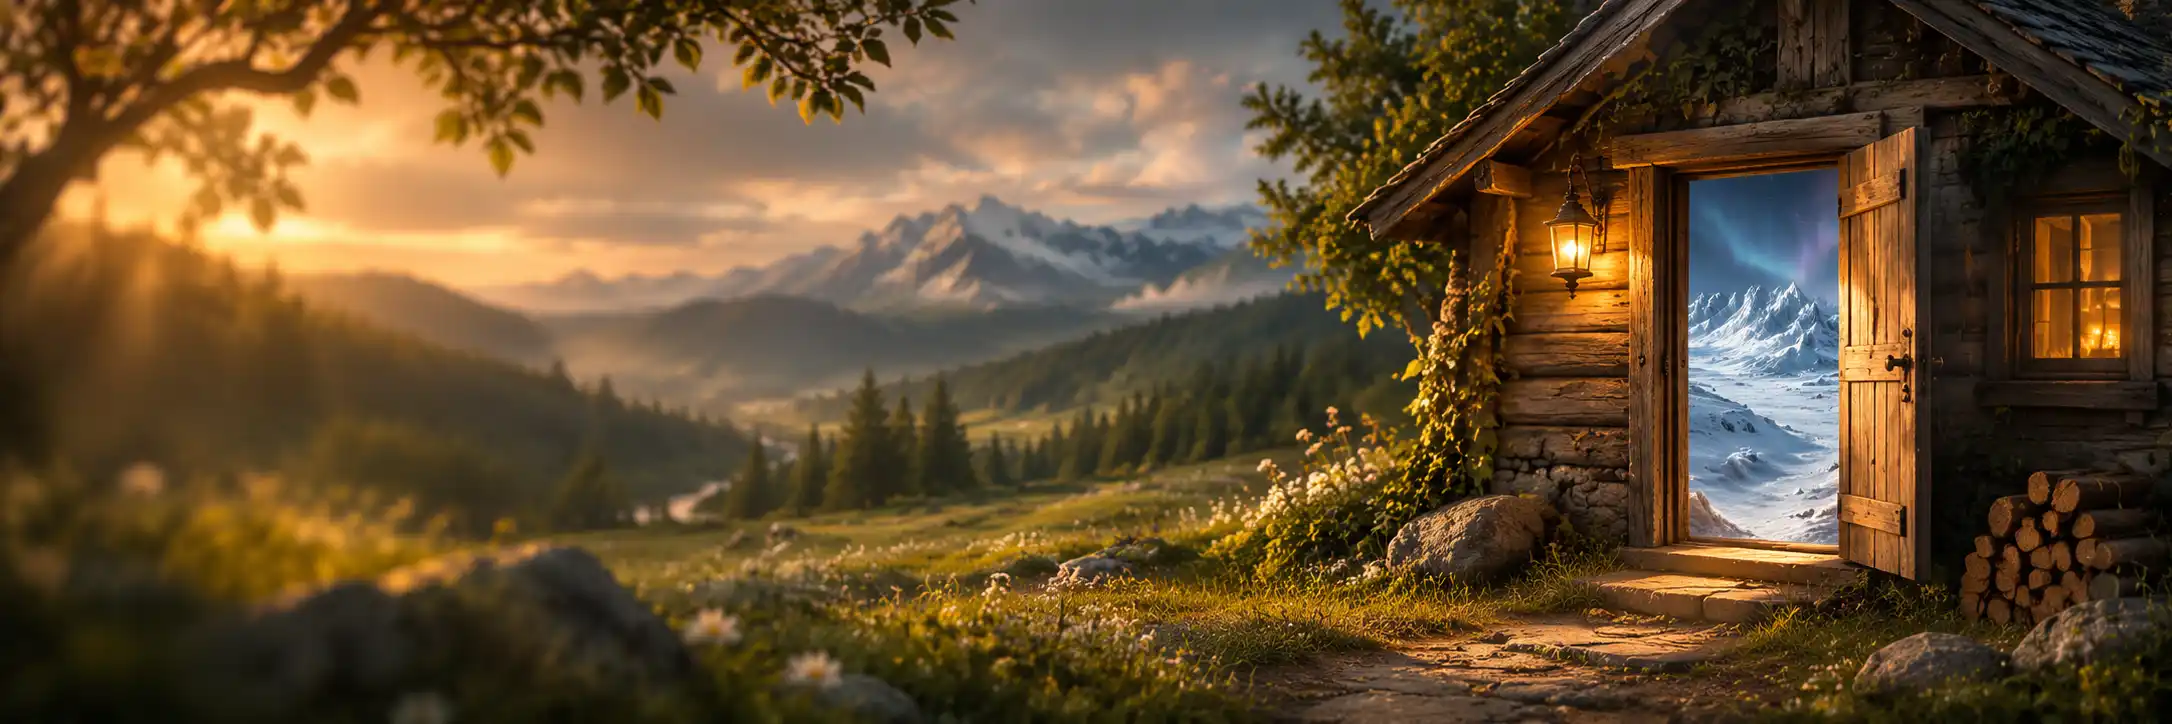
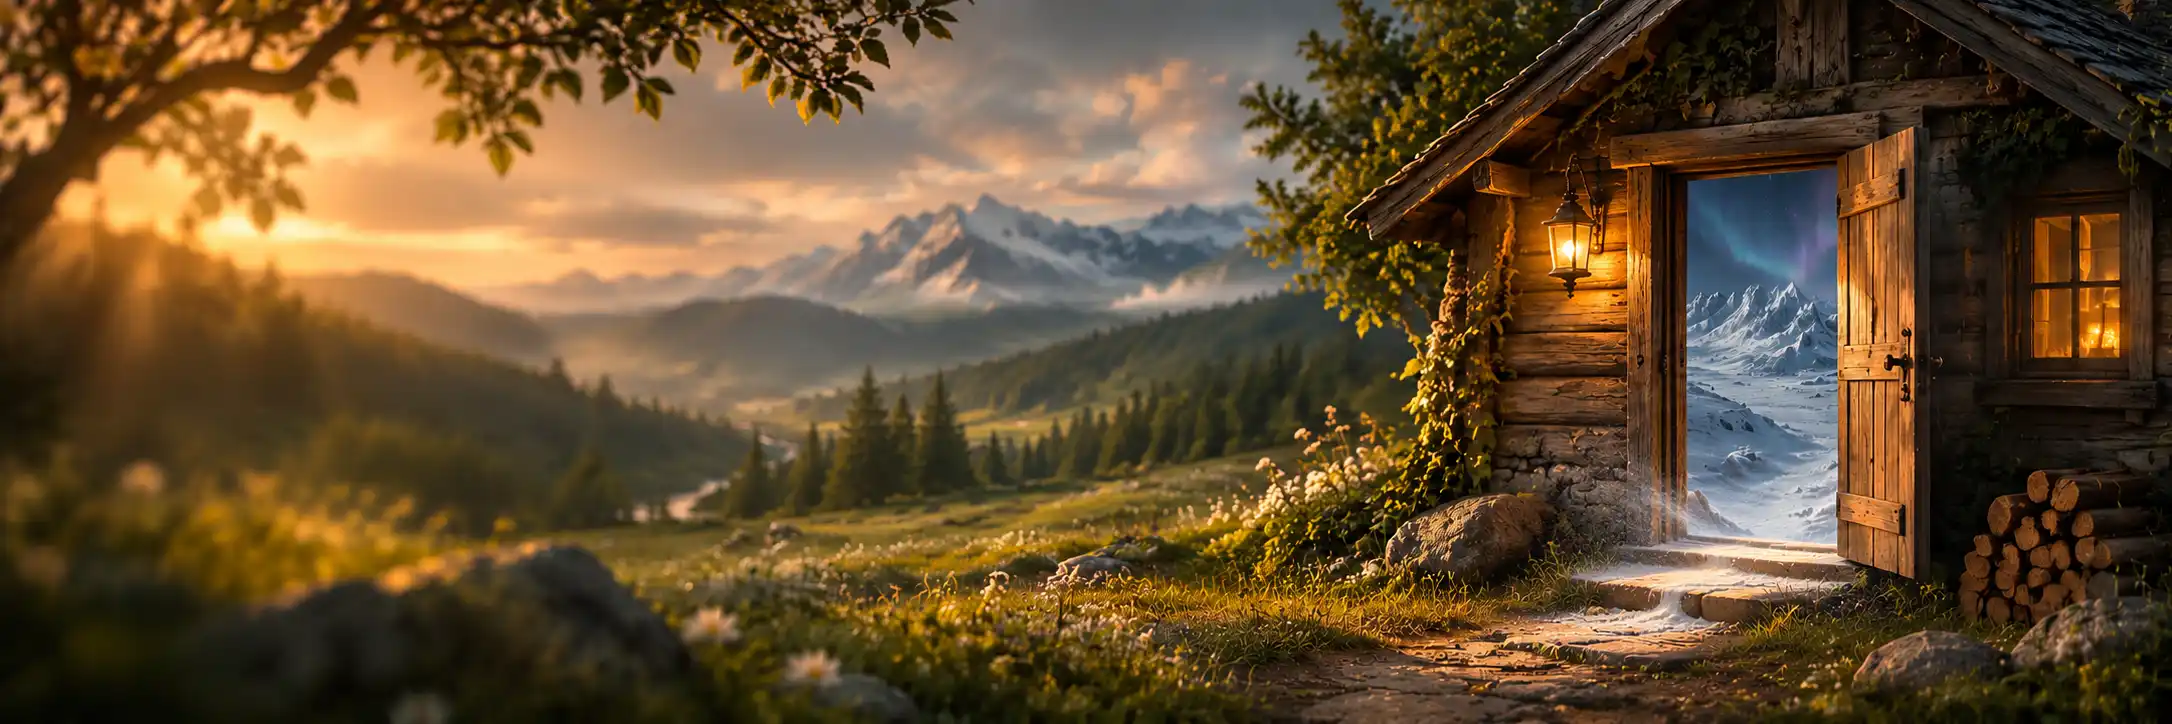
update

diff --git a/index.html b/index.html
@@ -11,7 +11,7 @@ description: "Was uns verbindet. Was uns zum Lachen bringt. Und was wir lieber n
 <section class="page-hero home-hero">
   <div class="wrap hero">
     <p class="eyebrow">Irgendwo müssen die Worte ja hin.</p>
-    <h1>Der Alltag hat<br>seine <em>Abgründe.</em></h1>
+    <h1>Über den Alltag.<br>Und andere <em>Abgründe.</em></h1>
     <p class="intro">{{ page.description | escape }}</p>
   </div>
 </section>
